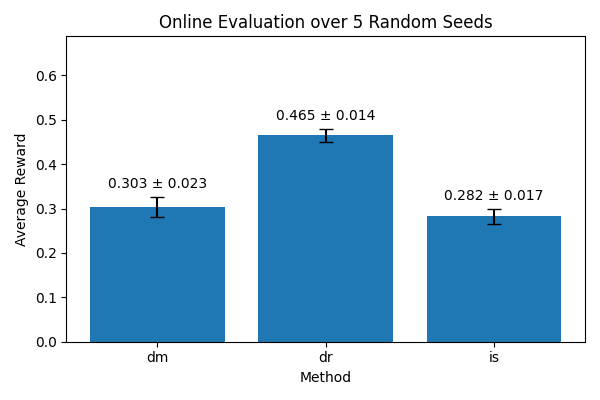
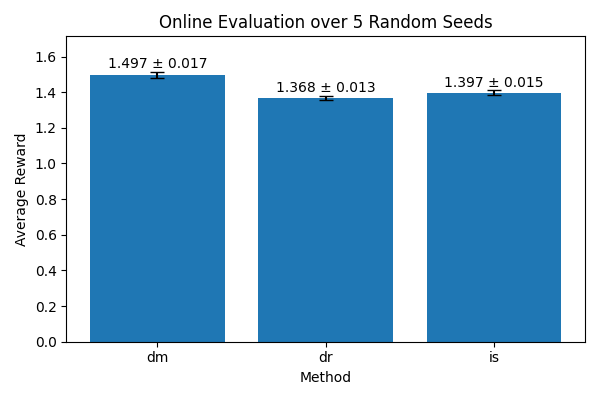
debugging single stage impl

diff --git a/gradients.py b/gradients.py
@@ -1,5 +1,4 @@
 import torch
-import torch.nn.functional as F
 
 class ISGradient:
     def __init__(self, context, actions, rewards, behavior_pscore, target_policy, action_context):
@@ -16,7 +15,8 @@ class ISGradient:
         weight = target_pscore / self.behavior_pscore
         weighted_rewards = self.rewards * weight.detach()
         log_pi_theta = self.target_policy.log_prob(self.context, self.actions, self.action_context)
-        return -(weighted_rewards * log_pi_theta).mean()
+        loss = -(weighted_rewards * log_pi_theta).mean()
+        return loss
     
 class DMGradient:
     def __init__(self, reward_model, target_policy, context, action_context):
@@ -26,22 +26,15 @@ class DMGradient:
         self.action_context = action_context
 
     def estimate_policy_gradient(self):
-        pi_theta = self.target_policy.probs(self.context, self.action_context) 
+        sampled_actions = torch.tensor(
+            [self.target_policy.sample_action(x_i, self.action_context) for x_i in self.context],
+            device=self.context.device
+        )
+        rewards = self.reward_model.predict(self.context, sampled_actions).detach()
+        log_probs = self.target_policy.log_prob(self.context, sampled_actions, self.action_context)
+        policy_gradient_loss = -(log_probs * rewards).mean()
 
-        batch_size = self.context.size(0)
-        num_actions = self.action_context.size(0)
-
-        all_rewards = torch.stack([
-            self.reward_model.predict(
-                self.context, 
-                torch.full((batch_size,), a_idx, dtype=torch.long, device=self.context.device)
-            ).detach() 
-            for a_idx in range(num_actions)
-        ], dim=1) 
-
-        expected_reward = (pi_theta * all_rewards).sum(dim=1)
-
-        return -expected_reward.mean()
+        return policy_gradient_loss
     
 class DRGradient:
     def __init__(self, reward_model, context, actions, behavior_pscore, 
@@ -55,22 +48,25 @@ class DRGradient:
         self.action_context = action_context
 
     def estimate_policy_gradient(self):
-        pi_e = self.target_policy.probs(self.context, self.action_context).detach()
+        pi_e = self.target_policy.probs(self.context, self.action_context)
 
-        target_actions = torch.tensor(
+        sampled_actions = torch.tensor(
             [self.target_policy.sample_action(x_i, self.action_context) for x_i in self.context],
             device=self.context.device
-        )
+        ).detach()
 
-        q_target = self.reward_model.predict(self.context, target_actions)
+        q_target = self.reward_model.predict(self.context, sampled_actions).detach()
+        log_pi_target = self.target_policy.log_prob(self.context, sampled_actions, self.action_context)
+        reinforce = (q_target * log_pi_target).mean()
+
         q_logged = self.reward_model.predict(self.context, self.actions)
-
-        target_pscore = pi_e[torch.arange(len(self.context)), self.actions]
-        weights = (target_pscore / self.behavior_pscore)
+        target_pscore = pi_e[torch.arange(len(self.context)), self.actions].detach()
+        weights = target_pscore / self.behavior_pscore
 
         log_pi_e = self.target_policy.log_prob(self.context, self.actions, self.action_context)
-
-        return -(q_target.mean() + ((weights * (self.rewards - q_logged)).detach() * log_pi_e).mean())
+        dr = (weights * (self.rewards - q_logged.detach()) * log_pi_e).mean()
+        loss = -(reinforce + dr)  
+        return loss
 
 class TwoStageISGradient:
     def __init__(self, policy, context, actions, rewards, 
@@ -117,7 +113,7 @@ class TwoStageISGradient:
 
         # compute weighted loss
         weight = pi_theta2_probs / pi0_valid
-        loss = -weight.detach() * log_pi1_valid * r_valid
+        loss = weight.detach() * log_pi1_valid * r_valid
         return loss.mean()
 
 class KernelISGradient:

diff --git a/opl_ss_train.py b/opl_ss_train.py
@@ -12,9 +12,9 @@ class RewardModel(nn.Module):
     def __init__(self, dim_context, emb_dim, n_actions):
         super().__init__()
         self.action_embed = nn.Embedding(n_actions, emb_dim)
-        self.fc1 = nn.Linear(dim_context + emb_dim, 64)
-        self.fc2 = nn.Linear(64, 32)
-        self.out = nn.Linear(32, 1)
+        self.fc1 = nn.Linear(dim_context + emb_dim, 128)
+        self.fc2 = nn.Linear(128, 64)
+        self.out = nn.Linear(64, 1)
 
     def forward(self, context, action_indices):
         a_emb = self.action_embed(torch.tensor(action_indices, 
@@ -38,7 +38,7 @@ def train_model(method: str):
         reward_std=0.5,
         device=device
     )
-    bandit_feedback = dataset.obtain_batch_bandit_feedback(n_samples=2000)
+    bandit_feedback = dataset.obtain_batch_bandit_feedback(n_samples=10000)
     x = bandit_feedback["context"]
     a_taken = bandit_feedback["action"]
     r = bandit_feedback["reward"]
@@ -52,7 +52,7 @@ def train_model(method: str):
     reward_model = RewardModel(dim_context, emb_dim, n_actions).to(device)
     reward_optimizer = optim.Adam(reward_model.parameters(), lr=1e-3)
 
-    for epoch in range(100):
+    for epoch in range(300):
         reward_optimizer.zero_grad()
         pred_r = reward_model(x, a_taken)
         loss = nn.MSELoss()(pred_r, r)
@@ -64,7 +64,7 @@ def train_model(method: str):
     target_policy = SoftmaxPolicy(dim_context).to(device)
     optimizer = optim.Adam(target_policy.parameters())
 
-    for epoch in range(100):
+    for epoch in range(300):
         optimizer.zero_grad()
         if method == "dm":
           loss_fn = DMGradient(
@@ -96,7 +96,7 @@ def train_model(method: str):
               target_policy=target_policy,
               action_context=action_context
           )
-          loss = loss_fn._estimate_policy_gradient()
+          loss = loss_fn.estimate_policy_gradient()
 
         loss.backward()
         optimizer.step()
